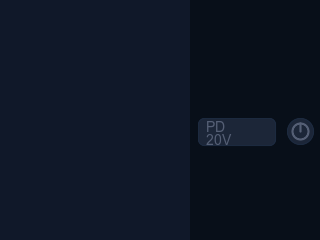
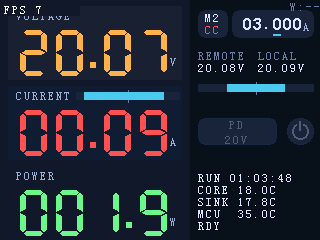
docs(ui): regenerate PD toggle mocks

diff --git a/tools/ui-mock/src/main.rs b/tools/ui-mock/src/main.rs
@@ -54,6 +54,7 @@ fn render_snapshot(
     snapshot: &ui::UiSnapshot,
     preset_panel_vm: Option<&preset_panel_mock::PresetPanelVm>,
     preset_preview_vm: Option<&preset_preview_panel::PresetPreviewPanelVm>,
+    fps_overlay: Option<u32>,
 ) -> Result<(), Box<dyn std::error::Error>> {
     let mut snapshot = snapshot.clone();
     snapshot.update_strings();
@@ -67,6 +68,9 @@ fn render_snapshot(
     }
     if let Some(vm) = preset_preview_vm {
         preset_preview_panel::render_preset_preview_panel(&mut frame, vm);
+    }
+    if let Some(fps) = fps_overlay {
+        ui::render_fps_overlay(&mut frame, fps);
     }
 
     // The UI renderer writes into the physical ST7789 buffer (240×320), while
@@ -91,18 +95,70 @@ fn render_snapshot(
     Ok(())
 }
 
+fn render_pd_toggle_mocks(repo_root: &Path) -> Result<(), Box<dyn std::error::Error>> {
+    let out_dir = repo_root.join("docs/assets/usb-pd-sink-toggle");
+
+    let mut base = ui::UiSnapshot::demo();
+    base.main_voltage = 20.07;
+    base.main_current = 0.09;
+    base.main_power = 1.9;
+    base.remote_voltage = 20.08;
+    base.local_voltage = 20.09;
+    base.set_control_overlay(2, false, LoadMode::Cc, false, true, false, true, None, None);
+    base.set_control_row(3_000, 'A', control::AdjustDigit::DEFAULT);
+    base.run_time.clear();
+    let _ = base.run_time.push_str("01:03:48");
+    base.sink_core_temp = 18.0;
+    base.sink_exhaust_temp = 17.8;
+    base.mcu_temp = 35.0;
+    base.pd_desired_mv = 20_000;
+    base.pd_20v_available = true;
+
+    let mut standby = base.clone();
+    standby.pd_state = ui::PdButtonState::Standby;
+    render_snapshot(
+        &out_dir.join("dashboard-pd-standby-20v.png"),
+        &standby,
+        None,
+        None,
+        Some(7),
+    )?;
+
+    let mut active = base;
+    active.pd_state = ui::PdButtonState::Active;
+    render_snapshot(
+        &out_dir.join("dashboard-pd-active-20v.png"),
+        &active,
+        None,
+        None,
+        Some(7),
+    )?;
+
+    Ok(())
+}
+
 fn main() -> Result<(), Box<dyn std::error::Error>> {
     let repo_root = PathBuf::from(env!("CARGO_MANIFEST_DIR"))
         .join("..")
         .join("..");
+    let mode = std::env::args().nth(1);
+    if mode.as_deref() == Some("pd") {
+        return render_pd_toggle_mocks(&repo_root);
+    }
     let out_dir = repo_root.join("docs/assets/main-display");
     let preset_dir = repo_root.join("docs/assets/on-device-preset-ui");
 
     let mut cc = ui::UiSnapshot::demo();
     cc.set_control_overlay(2, true, LoadMode::Cc, false, true, false, true, None, None);
     cc.set_control_row(12_000, 'A', control::AdjustDigit::DEFAULT);
-    render_snapshot(&out_dir.join("main-display-mock-cc.png"), &cc, None, None)?;
-    render_snapshot(&preset_dir.join("dashboard.png"), &cc, None, None)?;
+    render_snapshot(
+        &out_dir.join("main-display-mock-cc.png"),
+        &cc,
+        None,
+        None,
+        None,
+    )?;
+    render_snapshot(&preset_dir.join("dashboard.png"), &cc, None, None, None)?;
 
     let mut cc_blocked_lnk = cc.clone();
     cc_blocked_lnk.set_control_overlay(
@@ -119,6 +175,7 @@ fn main() -> Result<(), Box<dyn std::error::Error>> {
     render_snapshot(
         &preset_dir.join("dashboard-blocked-lnk.png"),
         &cc_blocked_lnk,
+        None,
         None,
         None,
     )?;
@@ -138,6 +195,7 @@ fn main() -> Result<(), Box<dyn std::error::Error>> {
     render_snapshot(
         &preset_dir.join("dashboard-blocked-uv.png"),
         &cc_blocked_uv,
+        None,
         None,
         None,
     )?;
@@ -160,6 +218,7 @@ fn main() -> Result<(), Box<dyn std::error::Error>> {
         &preset_dir.join("preset-panel-output-off.png"),
         &cc,
         Some(&vm_off),
+        None,
         None,
     )?;
 
@@ -186,6 +245,7 @@ fn main() -> Result<(), Box<dyn std::error::Error>> {
         &cc_active_other,
         Some(&vm_on),
         None,
+        None,
     )?;
 
     let preview_cc = preset_preview_panel::PresetPreviewPanelVm {
@@ -201,6 +261,7 @@ fn main() -> Result<(), Box<dyn std::error::Error>> {
         &cc,
         None,
         Some(&preview_cc),
+        None,
     )?;
 
     let mut cv = ui::UiSnapshot::demo();
@@ -209,7 +270,13 @@ fn main() -> Result<(), Box<dyn std::error::Error>> {
     cv.local_voltage = 24.47;
     cv.set_control_overlay(2, false, LoadMode::Cv, false, true, false, true, None, None);
     cv.set_control_row(24_500, 'V', control::AdjustDigit::DEFAULT);
-    render_snapshot(&out_dir.join("main-display-mock-cv.png"), &cv, None, None)?;
+    render_snapshot(
+        &out_dir.join("main-display-mock-cv.png"),
+        &cv,
+        None,
+        None,
+        None,
+    )?;
 
     let preview_cv = preset_preview_panel::PresetPreviewPanelVm {
         preset_id: 2,
@@ -224,6 +291,7 @@ fn main() -> Result<(), Box<dyn std::error::Error>> {
         &cv,
         None,
         Some(&preview_cv),
+        None,
     )?;
 
     Ok(())
